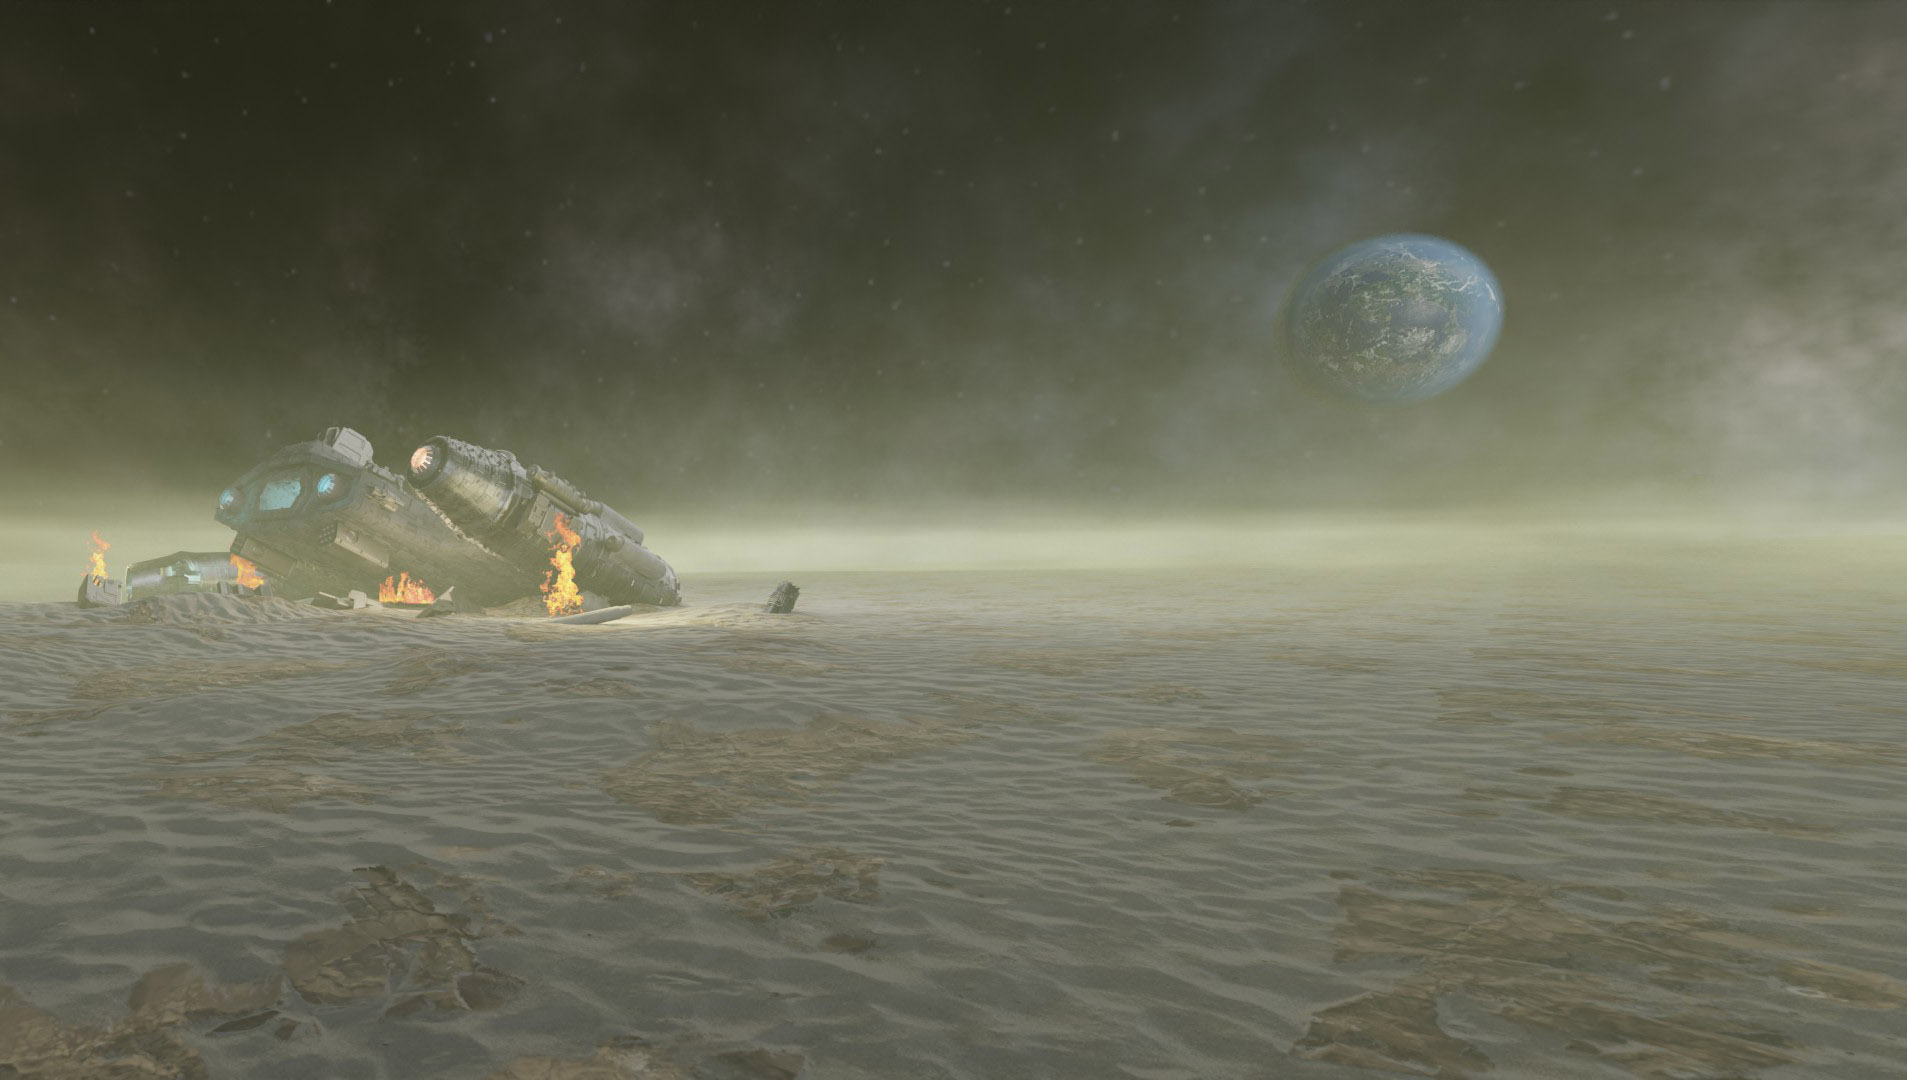
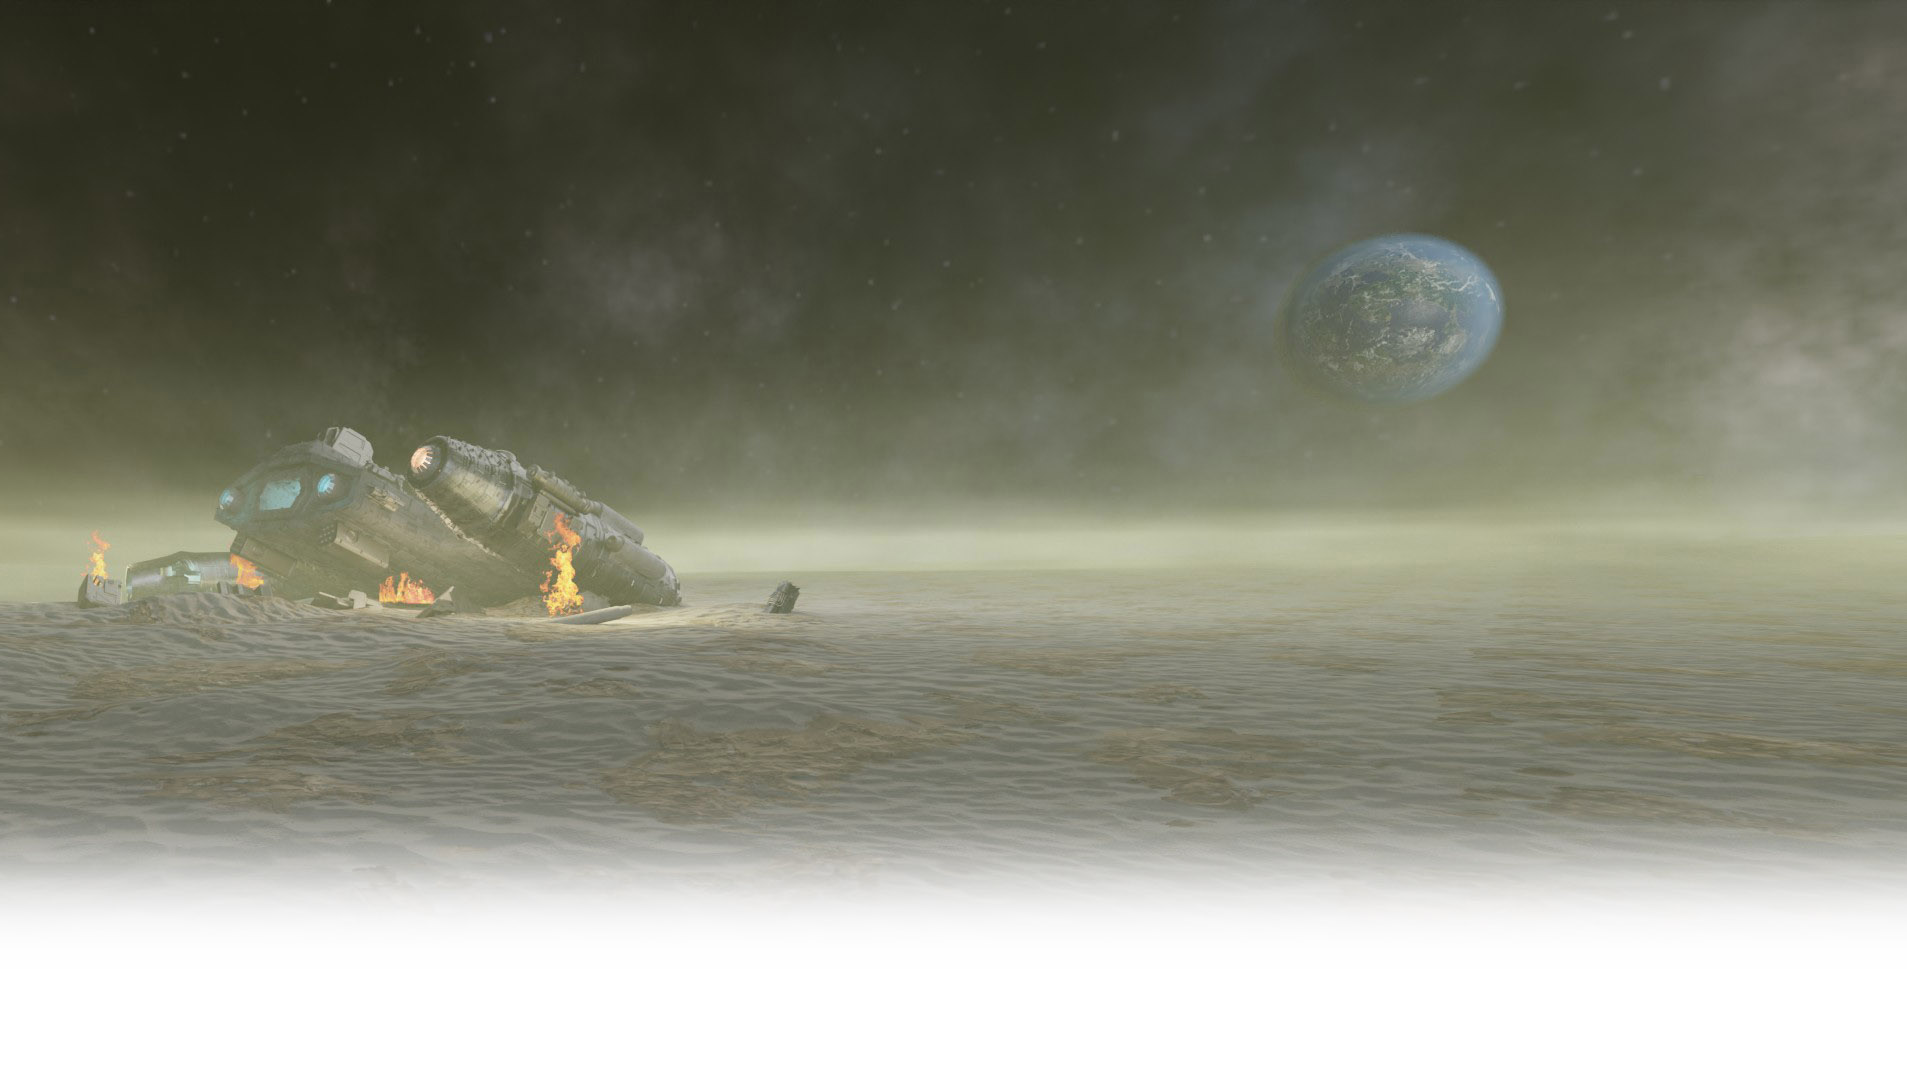
NFT drops images

Changed region(s): [[0.0, 0.7333, 1.0, 1.0]]

diff --git a/index.html b/index.html
@@ -78,27 +78,32 @@
   <!-- /.container -->
 </section>
 
-  <section id="portfolio" class="portfolio">
+  <section id="portfolio" class="header1">
   <div class="container">
     <div class="row">
       <div class="col-lg-10 col-lg-offset-1 text-center">
-        <h2 style="color:grey">WORKING DEMO NFT ROOM</h2>
+        <h2 style="color:grey">WORKING DEMO NFT DROP ROOM</h2>
         <hr class="small">
         <div class="row">
+		
+		<!--
           <div class="col-md-6">
             <div class="portfolio-item">
               <a href="#">
-                <img class="img-portfolio img-responsive" src="img/portfolio-1.jpg">
+                <img class="img-responsive" src="img/FoundersNFTframe.png">
               </a>
             </div>
           </div>
           <div class="col-md-6">
             <div class="portfolio-item">
               <a href="#">
-                <img class="img-portfolio img-responsive" src="img/portfolio-2.jpg">
+                <img class="img-responsive" src="img/portfolio-2.png">
               </a>
             </div>
           </div>
+		  
+		  -->
+		  
           
           
         
@@ -112,11 +117,12 @@
   
   
  
-  <aside class="call-to-action bg-primary">
+  <aside class="call-to-action bg-primary >
   <div class="container">
     <div class="row">
       <div class="col-lg-12 text-center">
         <h3>NFT AVAILABLE IN GAME</h3>
+		
         <a href="#" class="btn btn-lg btn-light">DOWNLOAD</a>
         
       </div>

diff --git a/css/stylish-portfolio.css b/css/stylish-portfolio.css
@@ -162,6 +162,18 @@ hr.small {
     -o-background-size: cover;
 }
 
+.header1 {
+    display: table;
+    position: relative;
+    width: 100%;
+    height: 50%;
+    background: url(../img/bg1.jpg) no-repeat center center scroll;
+    -webkit-background-size: cover;
+    -moz-background-size: cover;
+    background-size: cover;
+    -o-background-size: cover;
+}
+
 /* About */
 
 .about {
